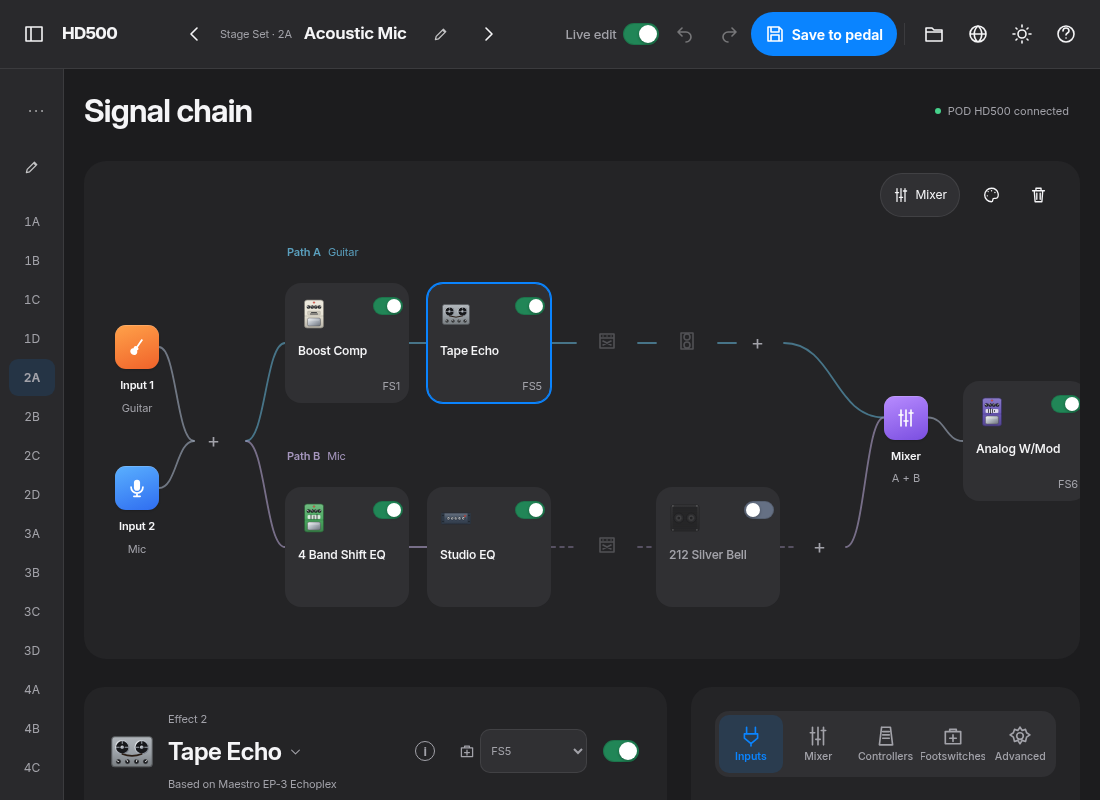
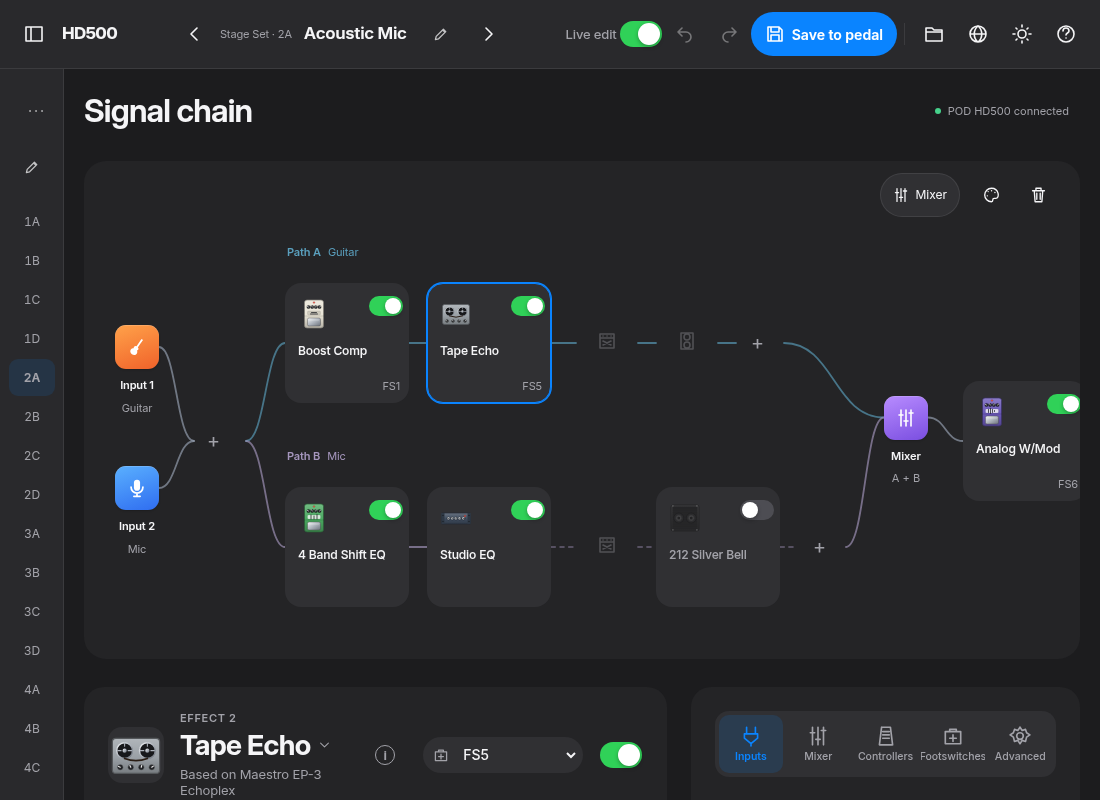
Unified iOS switch colors/geometry, Apple-style block inspector; fresh screenshots

diff --git a/app/public/css/app.css b/app/public/css/app.css
@@ -14,8 +14,9 @@
   --space-3:12px;
   --space-4:16px;
   --space-6:24px;
-  --switch-off:#657084;
-  --switch-on:#218657;
+  --switch-off:rgba(120,120,128,.42);
+  --switch-on:#30d158;
+  --ios-red:#ff453a;
   --bg:#1c1c1e;
   --panel:rgba(44,44,46,.84);
   --panel2:#303033;
@@ -51,8 +52,9 @@
 }
 :root[data-theme=light] {
   color-scheme:light;
-  --switch-off:#697386;
-  --switch-on:#18794e;
+  --switch-off:rgba(120,120,128,.32);
+  --switch-on:#34c759;
+  --ios-red:#ff3b30;
   --bg:#f2f2f7;
   --panel:rgba(250,250,252,.88);
   --panel2:#f2f2f7;
@@ -2036,3 +2038,23 @@ main { gap:28px; padding:32px; }
 
 .live-toggle { display:inline-flex; align-items:center; gap:2px; }
 .live-toggle label { font:500 13px var(--font-text); color:var(--dim); cursor:pointer; white-space:nowrap; }
+
+/* ---- One switch language: iOS green when on, translucent gray when off, same geometry everywhere ---- */
+.switch, .block .led { --track-width:42px; --track-height:26px; --thumb-size:22px; --thumb-inset:2px; }
+.block .led { --track-width:34px; --track-height:20px; --thumb-size:16px; width:44px; min-width:44px; }
+.switch::before, .block .led::before { box-shadow:none; }
+.switch::after, .block .led::after { box-shadow:0 2px 4px rgba(0,0,0,.28), 0 0 0 .5px rgba(0,0,0,.04); }
+.switch:hover, .block .led:hover, .switch:active, .block .led:active { background:transparent; }
+.switch:focus-visible::before, .block .led:focus-visible::before { outline:2px solid var(--accent); outline-offset:2px; }
+.mx-mute[aria-pressed=true] { background:var(--ios-red); color:#fff; }
+
+/* ---- Block inspector: caption, large title, grouped parameter card ---- */
+#inspector .insp-head { display:grid; grid-template-columns:auto 1fr auto auto auto; align-items:center; gap:16px; margin:0 0 24px; }
+#inspector .category-tile { width:56px; height:56px; border-radius:14px; display:grid; place-items:center; background:var(--panel2); }
+#inspector .insp-title { display:flex; flex-direction:column; gap:2px; min-width:0; }
+#inspector .insp-title .chip { align-self:flex-start; background:none; border:0; padding:0; font:600 11px var(--font-text); letter-spacing:.06em; text-transform:uppercase; color:var(--dim); }
+#inspector .insp-title .model-title { align-self:flex-start; padding:0; background:none; border:0; min-height:0; font:700 28px/1.15 var(--font-display); letter-spacing:-.02em; color:var(--text); }
+#inspector .based-on { font:400 13px var(--font-text); color:var(--dim); }
+#inspector .fs-assign { display:flex; align-items:center; gap:4px; padding:0 4px 0 10px; border-radius:99px; background:var(--panel2); color:var(--dim); }
+#inspector .fs-assign select { border:0; background:transparent; min-height:36px; padding:0 6px; color:var(--text); font:500 14px var(--font-text); }
+#inspector .knobs { background:var(--panel2); border-radius:16px; padding:24px 16px 20px; }
